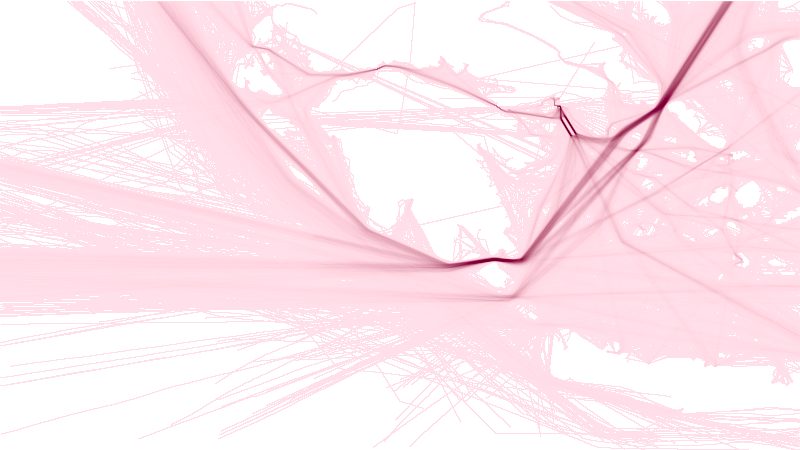
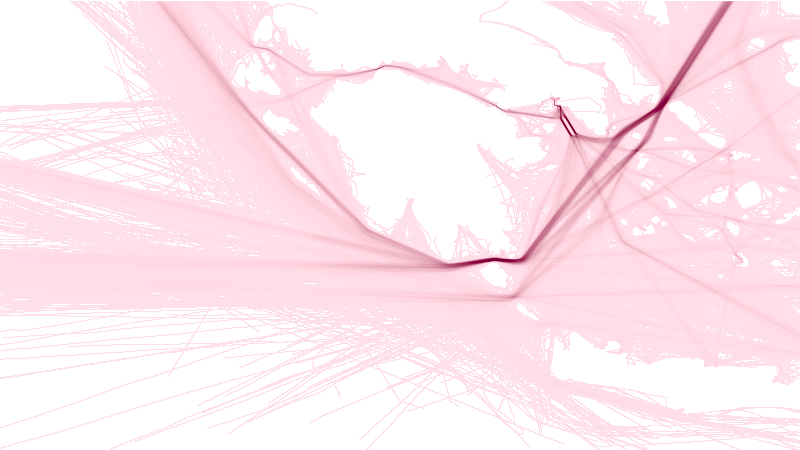
update Hellenic

diff --git a/data/data_cleaner.py b/data/data_cleaner.py
@@ -504,12 +504,11 @@ data['lineId'] = data['lineId'].astype(str)
 data['time'] = pd.to_datetime(data['time'])
 data['time'] = data['time'].apply(lambda x: x.timestamp())
 data = data.sort_values(by=['lineId', 'time'])
-print(len(data['lineId'].unique()))	# 18276
-
-# remove the data with the same timestamp
-data.drop_duplicates(inplace=True)
+data.drop_duplicates(inplace=True)	# remove the data with the same timestamp
 data.reset_index(drop=True, inplace=True)
-print(len(data['lineId'].unique()))	# 18276
+num_lines = len(data['lineId'].unique())
+data.to_csv(results_folder + '7.HellenicTrench_step1_%d.csv' % num_lines, index=False)
+print(num_lines)	# 18276
 
 #% seperate the line if the time gap is larger than 1 hour
 ##### if run this here, the later will be super slow
@@ -519,7 +518,28 @@ data['too_late'] = data['time_gap'].apply(lambda x: 1 if x > 3600 else 0)
 data['lineId2'] = data['lineId'] + '-' + data['too_late'].cumsum().astype(str)
 data = data[['lineId2', 'time', 'x', 'y']]
 data.columns = ['lineId', 'time', 'x', 'y']
-print(len(data['lineId'].unique()))	# 420455
+num_lines = len(data['lineId'].unique())
+data.to_csv(results_folder + '7.HellenicTrench_step2_%d.csv' % num_lines, index=False)
+print(num_lines)	# 420455
+
+#% seperate the line if the position gap is larger than 20% of the diagonal
+x_range = data['x'].max() - data['x'].min()
+y_range = data['y'].max() - data['y'].min()
+diag = np.sqrt(x_range**2 + y_range**2)
+threshold = diag * 0.2
+data.reset_index(drop=True, inplace=True)
+data['x_gap'] = data.groupby('lineId')['x'].diff()
+data['x_gap'] = data['x_gap'].fillna(0)
+data['y_gap'] = data.groupby('lineId')['y'].diff()
+data['y_gap'] = data['y_gap'].fillna(0)
+data['pos_gap'] = np.sqrt(data['x_gap']**2 + data['y_gap']**2)
+data['too_far'] = data['pos_gap'].apply(lambda x: 1 if x > threshold else 0)
+data['lineId2'] = data['lineId'] + '-' + data['too_far'].cumsum().astype(str)
+data = data[['lineId2', 'time', 'x', 'y']]
+data.columns = ['lineId', 'time', 'x', 'y']
+num_lines = len(data['lineId'].unique())
+data.to_csv(results_folder + '7.HellenicTrench_step3_%d.csv' % num_lines, index=False)
+print(num_lines)	# 421894
 
 #% only reserve the lines across the crowded area (Hellenic Trench)
 all_lines = data['lineId'].unique()
@@ -527,16 +547,20 @@ filtered_data = data[(data['x'] > 20) & (data['x'] < 25.5) & (data['y'] > 36)]
 reserve_lines = filtered_data['lineId'].unique()
 data = data[data['lineId'].isin(reserve_lines)]
 data.reset_index(drop=True, inplace=True)
-print(len(data['lineId'].unique()))	# 13952 or 303094
+num_lines = len(data['lineId'].unique())
+data.to_csv(results_folder + '7.HellenicTrench_step4_%d.csv' % num_lines, index=False)
+print(num_lines)	# 303869
 
-#%% remove some lines
+#% remove some lines
 # remove the line if the number of points is less than 10
 lineId_count = data.groupby('lineId').count()['time']
 abandon_lines = lineId_count[lineId_count < 10].index
 data = data[~data['lineId'].isin(abandon_lines)]
-print(len(data['lineId'].unique()))	# 190535
+num_lines = len(data['lineId'].unique())
+data.to_csv(results_folder + '7.HellenicTrench_step5_%d.csv' % num_lines, index=False)
+print(num_lines)	# 190582
 
-#%% remove the line if start-end distance is less than 10% of the diagonal
+#% remove the line if start-end distance is less than 10% of the diagonal
 # diagonal distance
 x_range = data['x'].max() - data['x'].min()
 y_range = data['y'].max() - data['y'].min()
@@ -551,26 +575,39 @@ all_diag = np.sqrt((all_first_x - all_last_x) ** 2 + (all_first_y - all_last_y) 
 abandon_lines = all_diag[all_diag < threshold].index
 data = data[~data['lineId'].isin(abandon_lines)]
 data.reset_index(drop=True, inplace=True)
-print(len(data['lineId'].unique()))	# 59250
+num_lines = len(data['lineId'].unique())
+data.to_csv(results_folder + '7.HellenicTrench_step6_%d.csv' % num_lines, index=False)
+print(num_lines)	# 59244
 
-#%% remove the line going through the selected corner area
+#% remove the line going through the selected corner area
 filtered_data = data[(data['y'] < 34.5) | ( (data['x'] < 19) & (data['y'] > 38) & (data['y'] < 38.7) )]
 abandon_lines = filtered_data['lineId'].unique()
 data = data[~data['lineId'].isin(abandon_lines)]
 data.reset_index(drop=True, inplace=True)
-print(len(data['lineId'].unique()))	# 57896
+num_lines = len(data['lineId'].unique())
+data.to_csv(results_folder + '7.HellenicTrench_step7_%d.csv' % num_lines, index=False)
+print(num_lines)	# 57892
 
-#%% randomly sample 10,000 lines
+#%% remove the line going through the selected land area
+filtered_data = data[(data['x'] > 36.9) & (data['x'] < 37.1) & (data['y'] > 22.3) & (data['y'] < 22.8) ]
+abandon_lines = filtered_data['lineId'].unique()
+data = data[~data['lineId'].isin(abandon_lines)]
+data.reset_index(drop=True, inplace=True)
+num_lines = len(data['lineId'].unique())
+data.to_csv(results_folder + '7.HellenicTrench_step8_%d.csv' % num_lines, index=False)
+print(num_lines)	# 57892
+
+#% randomly sample 10,000 lines
 lines = data['lineId'].unique()
 lines = np.random.choice(lines, 10000, replace=False)
 data_cleaned = data[data['lineId'].isin(lines)]
-data_cleaned.to_csv(results_folder + 'HellenicTrench_cleaned_10k.csv', index=False)
+data_cleaned.to_csv(results_folder + '7.HellenicTrench_cleaned_10k.csv', index=False)
 
-#%% randomly sample 5,000 lines
+#% randomly sample 5,000 lines
 lines = data['lineId'].unique()
 lines = np.random.choice(lines, 5000, replace=False)
 data_cleaned = data[data['lineId'].isin(lines)]
-data_cleaned.to_csv(results_folder + 'HellenicTrench_cleaned_5k.csv', index=False)
+data_cleaned.to_csv(results_folder + '7.HellenicTrench_cleaned_5k.csv', index=False)
 
 # %% 8. Mediterrannean Sea Trajectory data ######################################
 	
